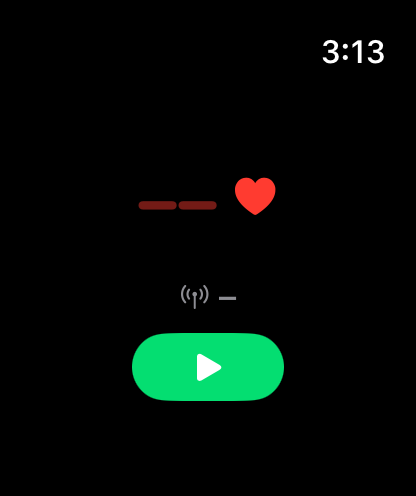
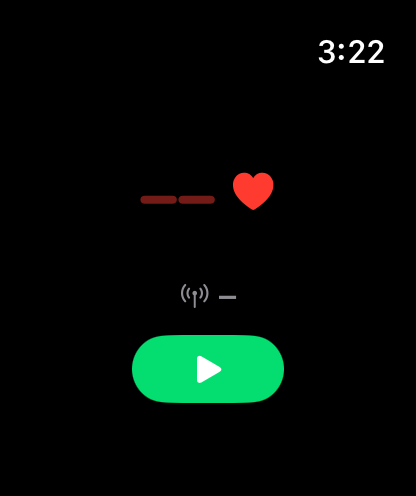
Fixed-layout watch UI, alert-only errors, Health denial detection
- Watch shows only heart rate, signal indicator and start/stop; all rows fixed height.
- Problems appear as a one-time alert (orange signal icon for Bluetooth), never inline text.
- Detect a denied Health prompt and explain where to re-enable it.
- Tear down the BLE peripheral on stop; refresh site screenshots.

diff --git a/Watch/WorkoutManager.swift b/Watch/WorkoutManager.swift
@@ -6,9 +6,11 @@ import HealthKit
 final class WorkoutManager: NSObject, ObservableObject, HKWorkoutSessionDelegate, HKLiveWorkoutBuilderDelegate {
     @Published var heartRate: Int = 0
     @Published var running = false
-    @Published var status = "Ready"
-    @Published var bleStatus = ""
     @Published var receivers = 0
+    /// Bluetooth is unavailable or errored (the signal icon turns orange).
+    @Published var bleProblem = false
+    /// One-time message shown as an alert. Never shown inline, so the layout never moves.
+    @Published var alertMessage: String?
 
     private let ble = WatchBroadcaster()
     private let store = HKHealthStore()
@@ -21,25 +23,32 @@ final class WorkoutManager: NSObject, ObservableObject, HKWorkoutSessionDelegate
 
     override init() {
         super.init()
-        ble.onStatus = { [weak self] in self?.bleStatus = $0 }
+        ble.onStatus = { [weak self] msg in
+            self?.bleProblem = !msg.isEmpty
+            if !msg.isEmpty { self?.alertMessage = msg }
+        }
         ble.onReceivers = { [weak self] in self?.receivers = $0 }
         #if DEBUG
         // Sample state for App Store screenshots in the simulator (no sensor there).
         if CommandLine.arguments.contains("-screenshot-running") {
-            heartRate = 142; running = true; receivers = 1; status = "Sending HR…"
+            heartRate = 142; running = true; receivers = 1
         }
         #endif
     }
 
     func start() {
-        guard HKHealthStore.isHealthDataAvailable() else { status = "Health unavailable"; return }
-        status = "Requesting access…"
+        guard HKHealthStore.isHealthDataAvailable() else {
+            alertMessage = "Health data isn't available on this watch."
+            return
+        }
         let share: Set<HKSampleType> = [HKObjectType.workoutType()]
         let read: Set<HKObjectType> = [hrType]
         store.requestAuthorization(toShare: share, read: read) { [weak self] ok, error in
             DispatchQueue.main.async {
                 guard let self else { return }
-                if ok { self.beginSession() } else { self.status = "Health access denied" }
+                // `ok` only says the prompt finished. Tapping "Don't Allow" shows up as a denied share status.
+                let denied = self.store.authorizationStatus(for: HKObjectType.workoutType()) == .sharingDenied
+                if ok && !denied { self.beginSession() } else { self.alertMessage = Self.healthDeniedMessage }
             }
         }
     }
@@ -61,7 +70,7 @@ final class WorkoutManager: NSObject, ObservableObject, HKWorkoutSessionDelegate
             b.beginCollection(withStart: start) { [weak self] ok, error in
                 DispatchQueue.main.async {
                     self?.running = ok
-                    self?.status = ok ? "Sending HR…" : "Start failed: \(error?.localizedDescription ?? "?")"
+                    if !ok { self?.alertMessage = Self.message(for: error) }
                 }
             }
             ble.start()
@@ -71,7 +80,7 @@ final class WorkoutManager: NSObject, ObservableObject, HKWorkoutSessionDelegate
                 self.ble.sendBPM(self.heartRate)
             }
         } catch {
-            status = "Error: \(error.localizedDescription)"
+            alertMessage = Self.message(for: error)
         }
     }
 
@@ -79,6 +88,21 @@ final class WorkoutManager: NSObject, ObservableObject, HKWorkoutSessionDelegate
         resendTimer?.invalidate(); resendTimer = nil
         session?.end()
         ble.stop()
+    }
+
+    // MARK: Messages
+
+    private static let healthDeniedMessage =
+        "Allow Health access for HR Bridge: on your iPhone open Health, tap your picture, then Apps, then HR Bridge."
+
+    private static func message(for error: Error?) -> String {
+        guard let error else { return "Couldn't start the workout." }
+        let e = error as NSError
+        if e.domain == HKError.errorDomain,
+           e.code == HKError.errorAuthorizationDenied.rawValue || e.code == HKError.errorAuthorizationNotDetermined.rawValue {
+            return healthDeniedMessage
+        }
+        return error.localizedDescription
     }
 
     // MARK: HKWorkoutSessionDelegate
@@ -92,16 +116,14 @@ final class WorkoutManager: NSObject, ObservableObject, HKWorkoutSessionDelegate
                 DispatchQueue.main.async {
                     self?.running = false
                     self?.heartRate = 0
-                    self?.status = "Stopped"
                     self?.session = nil
-                    self?.builder = nil
-                }
+                    self?.builder = nil                }
             }
         }
     }
 
     func workoutSession(_ s: HKWorkoutSession, didFailWithError error: Error) {
-        DispatchQueue.main.async { self.status = "Error: \(error.localizedDescription)" }
+        DispatchQueue.main.async { self.alertMessage = Self.message(for: error) }
     }
 
     // MARK: HKLiveWorkoutBuilderDelegate

diff --git a/Watch/WatchContentView.swift b/Watch/WatchContentView.swift
@@ -1,20 +1,22 @@
 import SwiftUI
 
+/// Three things only: heart rate, receiver/signal indicator, start/stop.
+/// Every row has a fixed height so nothing moves when values change. Problems
+/// appear as a one-time alert (and an orange signal icon), never as inline text.
 struct WatchContentView: View {
     @EnvironmentObject var w: WorkoutManager
 
-    /// Normal states are obvious from the number and the button; only surface problems.
-    private var statusText: String? {
-        ["Sending HR…", "Ready", "Stopped"].contains(w.status) ? nil : w.status
-    }
-
     var body: some View {
-        VStack(spacing: 8) {
+        VStack(spacing: 10) {
             reading
-            receiversRow
-            messages
+            signal
             toggleButton
         }
+        .alert("HR Bridge",
+               isPresented: Binding(get: { w.alertMessage != nil },
+                                    set: { if !$0 { w.alertMessage = nil } }),
+               actions: { Button("OK", role: .cancel) {} },
+               message: { Text(w.alertMessage ?? "") })
     }
 
     // MARK: Pieces
@@ -31,33 +33,21 @@ struct WatchContentView: View {
                 .font(.system(size: 22))
                 .foregroundStyle(.red)
         }
+        .frame(height: 64)
     }
 
     /// Devices subscribed to the watch's heart-rate broadcast (Zwift, bike computer…).
-    private var receiversRow: some View {
+    private var signal: some View {
         HStack(spacing: 4) {
-            Image(systemName: "antenna.radiowaves.left.and.right")
+            Image(systemName: w.bleProblem ? "antenna.radiowaves.left.and.right.slash"
+                                           : "antenna.radiowaves.left.and.right")
             Text(w.receivers > 0 ? "\(w.receivers)" : "–")
                 .monospacedDigit()
                 .fontWeight(.semibold)
         }
         .font(.footnote)
-        .foregroundStyle(w.receivers > 0 ? Color.green : Color.secondary)
-    }
-
-    @ViewBuilder private var messages: some View {
-        if !w.bleStatus.isEmpty {
-            Text(w.bleStatus)
-                .font(.caption2)
-                .foregroundStyle(.orange)
-                .multilineTextAlignment(.center)
-        }
-        if let statusText {
-            Text(statusText)
-                .font(.caption2)
-                .foregroundStyle(.secondary)
-                .multilineTextAlignment(.center)
-        }
+        .foregroundStyle(w.bleProblem ? Color.orange : (w.receivers > 0 ? Color.green : Color.secondary))
+        .frame(height: 20)
     }
 
     private var toggleButton: some View {
@@ -71,6 +61,5 @@ struct WatchContentView: View {
                 .background(Capsule().fill(w.running ? Color.red : Color.green))
         }
         .buttonStyle(.plain)
-        .padding(.top, 2)
     }
 }

diff --git a/tools/hrcheck.swift b/tools/hrcheck.swift
@@ -25,6 +25,7 @@ final class Checker: NSObject, CBCentralManagerDelegate, CBPeripheralDelegate {
         guard target == nil, name.contains("Watch HR") else { return }
         target = p; p.delegate = self; c.stopScan(); c.connect(p)
     }
+    func centralManager(_ c: CBCentralManager, didDisconnectPeripheral p: CBPeripheral, error: Error?) { out("Disconnected\(error.map { " (\($0.localizedDescription))" } ?? "")") }
     func centralManager(_ c: CBCentralManager, didConnect p: CBPeripheral) { out("Connected"); p.discoverServices([CBUUID(string: "180D")]) }
     func peripheral(_ p: CBPeripheral, didDiscoverServices e: Error?) {
         for s in p.services ?? [] { p.discoverCharacteristics([CBUUID(string: "2A37")], for: s) }

diff --git a/Watch/WatchBroadcaster.m b/Watch/WatchBroadcaster.m
@@ -41,9 +41,18 @@
     if (_mgr) [self info:@"manager created"]; else [self report:@"Bluetooth failed"];
 }
 
+/// CoreBluetooth has no "disconnect this central" call for a peripheral, and stopAdvertising
+/// leaves existing connections open (receivers then sit "connected" until they time out).
+/// Tearing the whole manager down drops the GATT server and with it the connections.
 - (void)stop {
     if (!_mgr) return;
-    ((void (*)(id, SEL))objc_msgSend)(_mgr, NSSelectorFromString(@"stopAdvertising"));
+    id mgr = _mgr;
+    ((void (*)(id, SEL, id))objc_msgSend)(mgr, NSSelectorFromString(@"setDelegate:"), nil);
+    ((void (*)(id, SEL))objc_msgSend)(mgr, NSSelectorFromString(@"stopAdvertising"));
+    ((void (*)(id, SEL))objc_msgSend)(mgr, NSSelectorFromString(@"removeAllServices"));
+    _mgr = nil;
+    _service = nil;
+    _hrChar = nil;
     _subs = 0;
     [self reportReceivers];
     [self info:@"stopped"];
